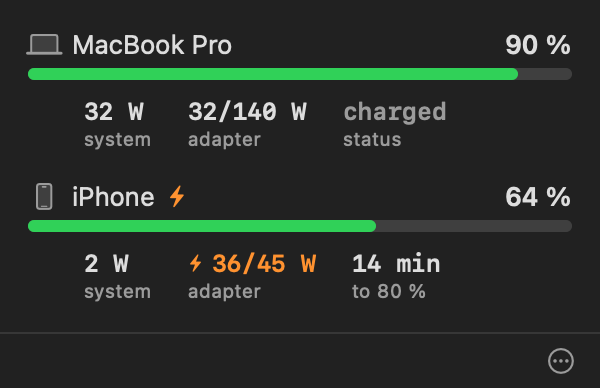
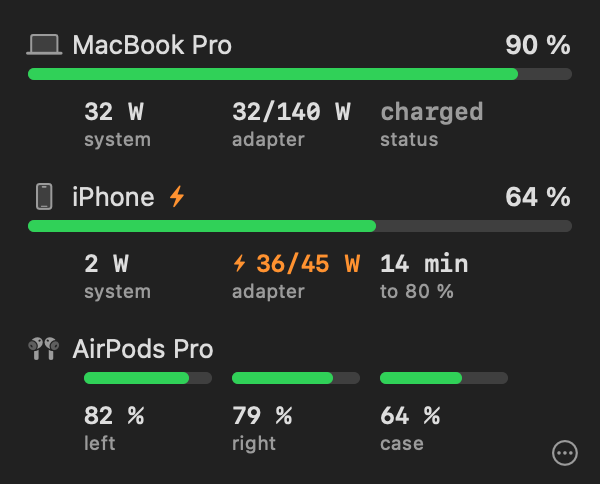
docs(readme): AirPods, tile picking and the Accessories widget
New renders: popover with the AirPods row, medium widget with the AirPods
tile, Accessories widget, large widget with the AirPods strip; the popover
renderer draws the AirPods row and the overflow control on the last line.

diff --git a/tools/render-popover.swift b/tools/render-popover.swift
@@ -10,7 +10,7 @@
 //   D=/tmp/tandem-render && mkdir -p $D
 //   swiftc -O -emit-library -emit-module -module-name BatteryCore \
 //       -o $D/libBatteryCore.dylib -emit-module-path $D/BatteryCore.swiftmodule \
-//       BatteryCore/Sources/BatteryCore/{Models,TandemSnapshot,ChargeEstimator,Formatting}.swift \
+//       BatteryCore/Sources/BatteryCore/{Models,TandemSnapshot,ChargeEstimator,Formatting,AirPods}.swift \
 //       BatteryCore/Sources/BatteryCore/History/{HistoryModels,ChargeSessionBuilder}.swift \
 //       TandemApp/Sources/TandemWidget/MonitorErrorShim.swift
 //   swiftc -O -o $D/render-popover tools/render-popover.swift \
@@ -83,6 +83,8 @@ let phoneStatus = DeviceStatus(
     lastSeen: now
 )
 
+let airpods = AirPodsStatus(name: "AirPods Pro", left: 82, right: 79, caseLevel: 64, lastHeard: now)
+
 // MARK: - The popover plate
 
 /// `PopoverContentView`'s layout — two rows in a 14 pt inset, a divider and the
@@ -95,19 +97,17 @@ struct PopoverPlate: View {
             VStack(alignment: .leading, spacing: 14) {
                 DeviceRowView(kind: .mac, status: macStatus, error: nil, now: now)
                 DeviceRowView(kind: .iphone, status: phoneStatus, error: nil, now: now)
+                AirPodsRowView(status: airpods, now: now)
             }
             .padding(14)
-
-            Divider()
-
-            HStack {
-                Spacer()
+            // The overflow control sits on the last row's line, no footer of its own.
+            .overlay(alignment: .bottomTrailing) {
                 Image(systemName: "ellipsis.circle")
                     .font(.system(size: 13))
                     .foregroundStyle(.secondary)
+                    .padding(.trailing, 10)
+                    .padding(.bottom, 8)
             }
-            .padding(.horizontal, 12)
-            .padding(.vertical, 6)
         }
         .frame(width: 300)
     }

diff --git a/README.md b/README.md
@@ -1,12 +1,14 @@
 # Tandem
 
-**MacBook and iPhone battery, side by side, on your Mac.** Tandem is a menu-bar
-agent for macOS that shows both percentages in the menu bar, both devices in a
-popover, three widget sizes on the desktop, and a summary window with 24 hours
+**MacBook, iPhone and AirPods battery, side by side, on your Mac.** Tandem is a
+menu-bar agent for macOS that shows both percentages in the menu bar, every
+device in a popover, widgets on the desktop, and a summary window with 24 hours
 of history — watts in and out, the adapter you are actually getting, and the
-time left to 80 %. There is **no app on the phone**: after one cable pairing
-("Trust This Computer"), Tandem reads the iPhone over Wi‑Fi by speaking Apple's
-own lockdown protocol to it, the same way Finder does.
+time left to 80 % (then to 100 %). There is **no app on the phone**: after one
+cable pairing ("Trust This Computer"), Tandem reads the iPhone over Wi‑Fi by
+speaking Apple's own lockdown protocol to it, the same way Finder does. The
+**AirPods** need nothing at all: left bud, right bud and case come from the
+Mac's own Bluetooth, even with the case lid closed.
 
 <p align="center">
   <img src="docs/menubar.png" alt="The menu-bar label: both percentages, a bolt for whatever is charging" width="134">
@@ -16,11 +18,13 @@ own lockdown protocol to it, the same way Finder does.
 
 | | |
 |---|---|
-| <img src="docs/popover.png" alt="The popover" width="300"> | **Popover** — one row per device: level bar, system draw, adapter, and either time to 80 % or time left. |
+| <img src="docs/popover.png" alt="The popover" width="300"> | **Popover** — one row per device: level bar, system draw, adapter, and either time to 80 % or time left. The AirPods get three bars — left, right, case — in the same columns, a bolt while something charges, and the time they were last heard when they are out of range. |
 | <img src="docs/widget-small.png" alt="Small widget" width="150"> <img src="docs/widget-small-charging.png" alt="Small widget, charging" width="150"> | **Small widget** — nested rings, Mac outside and iPhone inside; charging on the right. |
 | <img src="docs/widget-medium.png" alt="Medium widget" width="320"> | **Medium widget** — a ring, the wattage, the percent and the status for each device. |
 | <img src="docs/widget-medium-charging.png" alt="Medium widget, charging" width="320"> | **Medium widget, both on a charger** — orange watts, the rated adapter, `80 % · 14 min`. |
-| <img src="docs/widget-large.png" alt="Large widget" width="320"> | **Large widget** — the same two tiles plus a 24‑hour chart for both devices. |
+| <img src="docs/widget-medium-airpods.png" alt="Medium widget with the AirPods tile" width="320"> | **Pick the tiles** — right-click the widget → **Edit Widget** and choose Mac, iPhone or AirPods for each tile. The AirPods tile splits the outer ring between the buds (left half, right half) and gives the case the inner ring. |
+| <img src="docs/widget-large.png" alt="Large widget" width="320"> | **Large widget** — the same two tiles, an AirPods strip, and a 24‑hour chart for both devices. |
+| <img src="docs/widget-accessories.png" alt="Accessories widget" width="150"> | **Tandem Accessories** — a small widget for the AirPods alone. |
 
 The summary window comes in two layouts, chosen from the popover's overflow
 menu:
@@ -73,6 +77,11 @@ and the repository ships no picture of anyone's desktop.
 
 The Mac's own battery needs nothing at all — it is an in-process IOKit read.
 
+**AirPods** show up if they appear in this Mac's Bluetooth settings (AirPods on
+the same Apple ID do so on their own). macOS asks once for Bluetooth access;
+without it the levels still show, only the "heard just now" confirmation and
+the charging bolts are missing.
+
 ## How it works
 
 - **The Mac** is read from the `AppleSmartBattery` / `IOPMPowerSource` entries
@@ -87,6 +96,14 @@ The Mac's own battery needs nothing at all — it is an in-process IOKit read.
   tier answers, the percent still updates and the watt columns dim rather than
   vanish. The phone's Bonjour record disappears for tens of seconds at a time
   on Wi‑Fi, which is precisely why the direct route exists.
+- **The AirPods** are read in two halves. The numbers — left, right, case —
+  come from `system_profiler SPBluetoothDataType`, which lists only *your*
+  paired AirPods and names each bud. Proof that they are current comes from a
+  short CoreBluetooth scan for Apple's proximity advert (manufacturer data
+  `4c 00 07 …`), which AirPods broadcast every few seconds even in a closed case
+  and which carries the charging flags. That advert names nobody, so it only
+  counts when its levels match yours; strangers' AirPods on the next desk are
+  ignored. Not heard for five minutes, the AirPods show the time they last were.
 - **Polling is activity-based**, because every phone poll wakes `lockdownd` and
   the radio with it. How visible the readout is decides the cadence:
 
@@ -113,7 +130,8 @@ is in [`BatteryCore/NOTES.md`](BatteryCore/NOTES.md).
 
 Everything stays on your Mac. Tandem has no network code beyond the LAN socket
 it opens to your own iPhone: no server, no analytics, no account, no update
-check. The history database and the snapshot files live in
+check. Bluetooth is only listened to, never paired or connected, and only to
+match your own AirPods' levels. The history database and the snapshot files live in
 `~/Library/Application Support/Tandem/`, and deleting that folder deletes
 everything the app has ever recorded.
 
@@ -151,8 +169,10 @@ whether the phone answers at all: `once`, `watch`, `history`, `probe`,
 There is no scriptable way to place a widget: right-click the desktop →
 **Edit Widgets** (or Control Centre → the clock → **Edit Widgets**), find
 **Tandem** in the list and drag the size you want onto the desktop or into
-Notification Centre. Launch `Tandem.app` once first, so the system registers
-the extension.
+Notification Centre — **Tandem Battery** (small, medium, large) or **Tandem
+Accessories** (the AirPods). Launch `Tandem.app` once first, so the system
+registers the extension. To change which devices a medium or large widget
+shows, right-click it → **Edit Widget**.
 
 ## Project layout
 
@@ -161,7 +181,7 @@ the extension.
 | `BatteryCore/` | A standalone Swift package: both battery sources, the lockdown client, the polling policy, the charge estimator, the SQLite history and the `tandemctl` CLI. No AppKit. |
 | `BatteryCore/NOTES.md` | The engineering notes — the reasoning behind every decision above. |
 | `TandemApp/Sources/Tandem/` | The app: menu-bar label, popover, summary window, the `tandem://summary` URL scheme, the 80 % notification. |
-| `TandemApp/Sources/TandemWidget/` | The WidgetKit extension: small, medium and large. |
+| `TandemApp/Sources/TandemWidget/` | The WidgetKit extension: small, medium and large with tiles picked in Edit Widget, plus the small Accessories widget. |
 | `TandemApp/README.md` | The developer README for the app half, including the container trick the widget needs in the absence of an App Group. |
 | `Fixtures/` | Real IORegistry dumps, with identifying values replaced by synthetic ones, that the parser tests run against. |
 | `tools/` | The offscreen renderers behind `docs/`, the dylib bundler, the icon generator, the DMG script. |
@@ -179,6 +199,12 @@ the extension.
   at a stretch. That is a property of usbmuxd and Bonjour, not of Tandem; the
   direct client works through most of them, and the polling policy deliberately
   does not treat a disappearing record as an event worth a poll.
+- **AirPods are as current as the Mac's Bluetooth.** Out of radio range the
+  last levels stay, labelled with the time they were heard. The advert format
+  is Apple's and undocumented; a firmware update could change it, in which case
+  the levels keep working and only the live/charging confirmation would stop.
+- **No Apple Watch** yet — no source for its battery has been found that works
+  without an app on the watch.
 - **No settings window.** The two preferences that survived — the summary
   layout and launch-at-login — live in the popover's overflow menu.
 
@@ -192,6 +218,8 @@ the extension.
   widget-container trick that lets an unsigned app and its sandboxed extension
   talk to each other, and for its notes on the BLE side of Apple device
   batteries.
+- [furiousMAC/continuity](https://github.com/furiousMAC/continuity) — the
+  public description of Apple's proximity-pairing advert.
 - OpenSSL, for the TLS the direct lockdown client speaks.
 
 Bundled third-party licences are listed in [`THIRD_PARTY.md`](THIRD_PARTY.md)
@@ -205,12 +233,18 @@ MIT — see [`LICENSE`](LICENSE).
 
 ## По‑русски
 
-**Tandem** — агент в строке меню macOS, который показывает заряд MacBook и
-iPhone рядом: два процента в строке меню, всплывающее окно с двумя
-устройствами, три размера виджета и окно сводки с историей за сутки — ватты,
-адаптер, время до 80 %. **На телефон ничего ставить не нужно**: после
+**Tandem** — агент в строке меню macOS, который показывает заряд MacBook,
+iPhone и AirPods рядом: два процента в строке меню, всплывающее окно со всеми
+устройствами, виджеты и окно сводки с историей за сутки — ватты, адаптер, время
+до 80 % (а после — до 100 %). **На телефон ничего ставить не нужно**: после
 однократного соединения кабелем и нажатия «Доверять этому компьютеру» Tandem
 читает iPhone по Wi‑Fi напрямую, по протоколу lockdown, как это делает Finder.
+**AirPods** читаются через Bluetooth самого Mac: левый, правый и кейс, даже при
+закрытой крышке кейса.
+
+**Виджеты.** Tandem Battery (малый, средний, большой): в среднем и большом
+устройства для плиток выбираются в «Изменить виджет» — Mac, iPhone или AirPods.
+Tandem Accessories — малый виджет только для AirPods.
 
 **Установка.** Скачайте `Tandem-<версия>.dmg` из
 [Releases](https://github.com/Anato-Lich/Tandem/releases) и перетащите
@@ -225,11 +259,14 @@ xattr -dr com.apple.quarantine /Applications/Tandem.app
 
 **Требования:** macOS 15+, iPhone, один раз соединённый с этим Mac кабелем
 («Доверять этому компьютеру»), включённая синхронизация по Wi‑Fi (приложение
-включает её само) и общая сеть Wi‑Fi.
+включает её само) и общая сеть Wi‑Fi. Для AirPods — чтобы они были видны в
+настройках Bluetooth этого Mac (с тем же Apple ID это происходит само) и
+разрешение на Bluetooth, которое macOS спросит один раз.
 
 **Как это устроено.** Mac читается через IOKit, iPhone — через
 lockdown/`diagnostics_relay` по Wi‑Fi (прямой TLS-клиент и usbmuxd работают в
-гонке); частота опроса зависит от того, смотрит ли кто-нибудь на показания
+гонке), AirPods — через `system_profiler` и короткий Bluetooth-скан, который
+подтверждает, что цифры свежие; частота опроса зависит от того, смотрит ли кто-нибудь на показания
 (таблица уровней выше), история хранится локально в SQLite 30 дней. Ничего не
 уходит в сеть дальше вашего собственного телефона. Подробности —
 в [`BatteryCore/NOTES.md`](BatteryCore/NOTES.md), план работ — в
